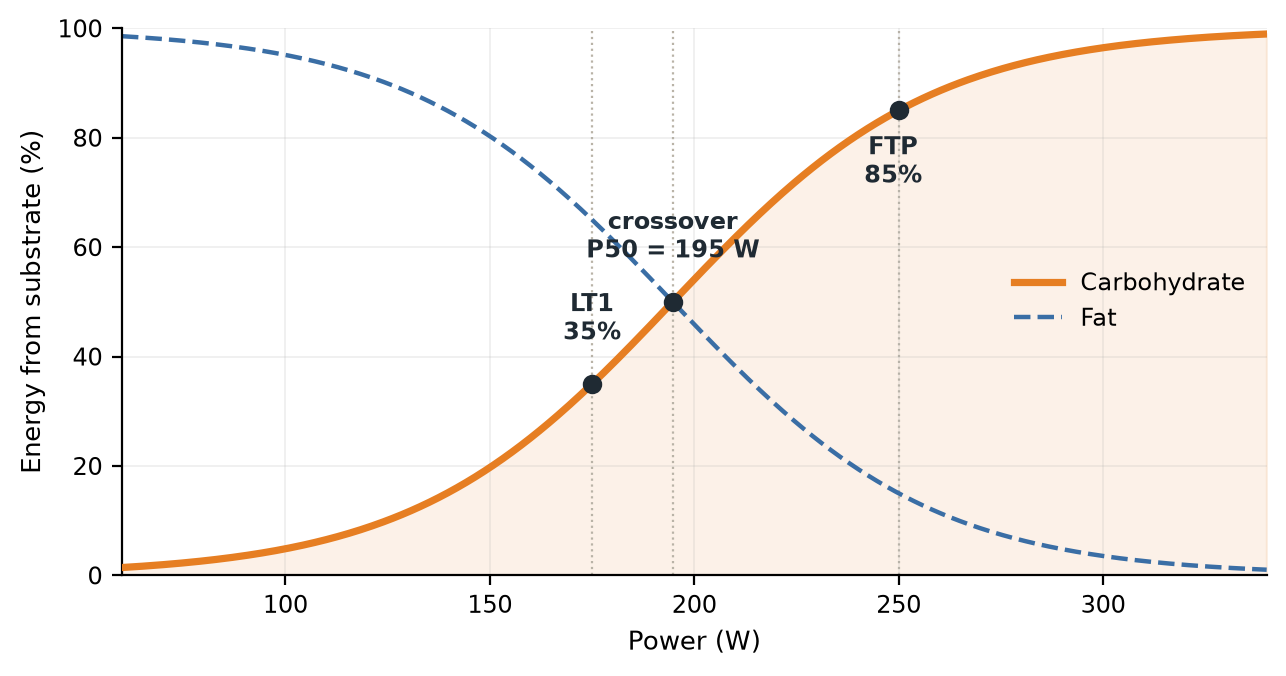
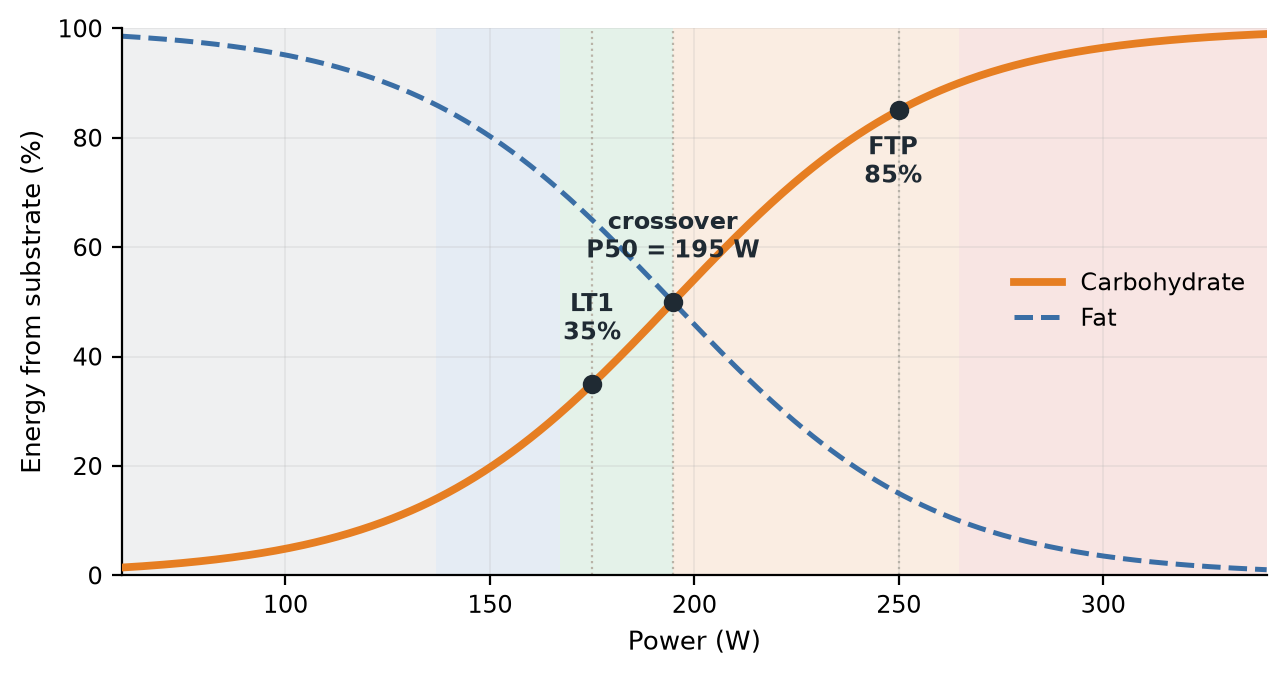
Shade pacing colour zones behind the README/white-paper charts
Add translucent power-zone bands (grey / blue / green / orange / red) behind
the substrate-share and grams-per-hour figures so the charts double as a
pacing reference. Bands are low-alpha so the carb/fat curves stay readable.

diff --git a/README.md b/README.md
@@ -85,6 +85,8 @@ counted as more carb-heavy), then integrated over the ride.
 ### The model, illustrated
 
 The charts below use a generic sample rider (FTP 250 W, LT1 175 W estimated, GE 21%).
+The shaded background bands are the app's pacing colour zones (grey → blue → green →
+orange → red; see [Colour zones](#colour-zones) above).
 
 **Energy share by power** — the carbohydrate/fat split. Carbs cross 50% of energy
 at the crossover point (~195 W here), between LT1 and FTP: